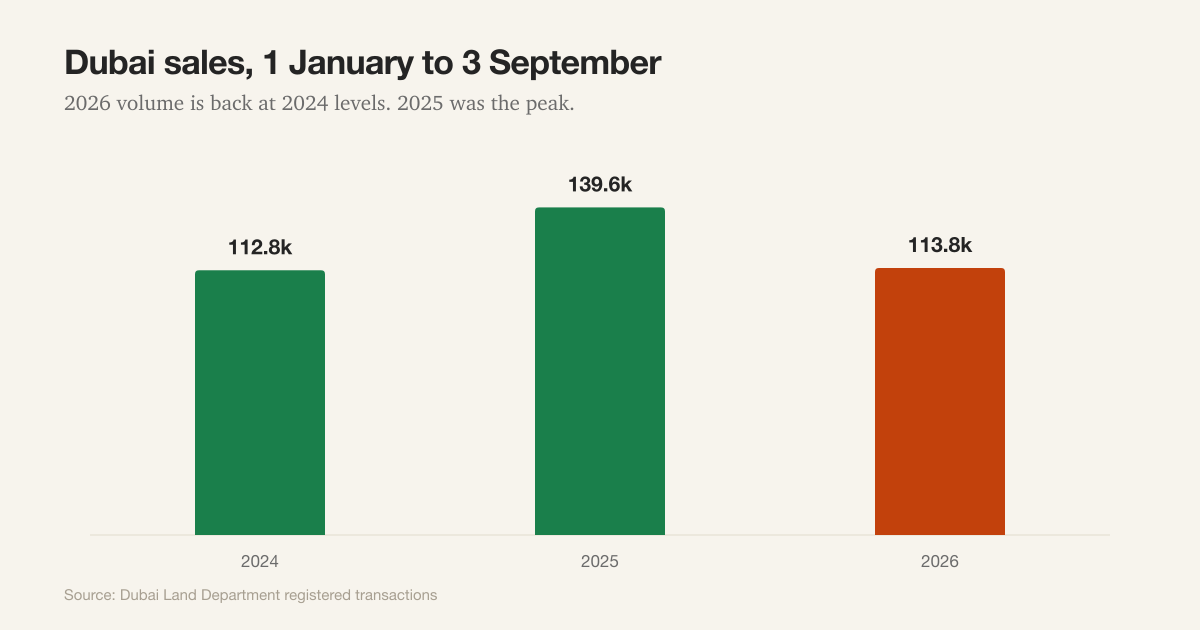
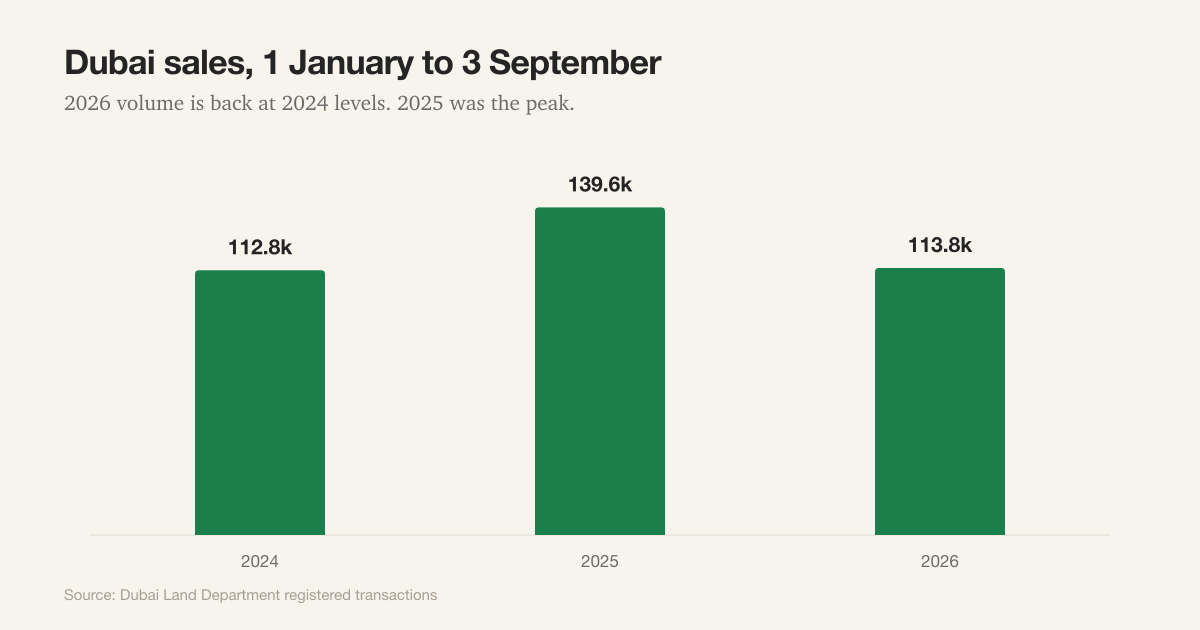
fix: one chart per argument, and never the same chart twice on a page
Six data articles drew the identical chart twice: once as the featured
image at the top of the page, once inline beside the paragraph it
supports. The featured image is also the card thumbnail and the Open
Graph image, so it has to stay set; it just should not be drawn again
when the body already embeds it. Inline wins, because a chart belongs
beside the argument it is evidence for.

- Suppress the top figure when the body already embeds that image.
- Add a villa-minus-flat spread chart. The villas article had no chart of
  its own thesis, and its featured image duplicated the price tracker's.
  The gap widening from level to 78 points is the claim the article makes.
- Give the market turn article its volume chart inline, under the
  paragraph that argues 2025 was the peak.
- Stop painting 2026 in the second hue on that chart. It marked 2026 as
  the exception while the text argues 2026 is ordinary and 2025 was the
  outlier, so the colour contradicted the sentence above it.

No two articles now share a featured image, and every chart is used.

Changed region(s): [[0.7092, 0.4222, 0.8633, 0.8746]]

diff --git a/src/app/answers/[slug]/page.tsx b/src/app/answers/[slug]/page.tsx
@@ -56,6 +56,15 @@ export default async function AnswerPage({
     }
   }
 
+  // True when the body already shows the featured image somewhere in the prose.
+  // Only the database path can be inspected; MDX bodies are compiled modules, and
+  // none of them embed images.
+  const embedsFeaturedImage = Boolean(
+    article.featuredImageUrl &&
+      article.source === "db" &&
+      article.body?.includes(article.featuredImageUrl),
+  );
+
   const schema = {
     "@context": "https://schema.org",
     "@type": "Article",
@@ -101,7 +110,13 @@ export default async function AnswerPage({
         </p>
       </div>
 
-      {article.featuredImageUrl && (
+      {/* The featured image is also the card thumbnail and the Open Graph image,
+          so it stays set even when it is not drawn here. Drawing it at the top of
+          an article that already embeds the same chart next to the paragraph it
+          supports showed the reader the identical figure twice, which is why the
+          data articles looked inconsistent against each other. Inline wins: a
+          chart belongs beside its argument. */}
+      {article.featuredImageUrl && !embedsFeaturedImage && (
         <figure className="mt-l mb-0">
           <Image
             src={article.featuredImageUrl}
